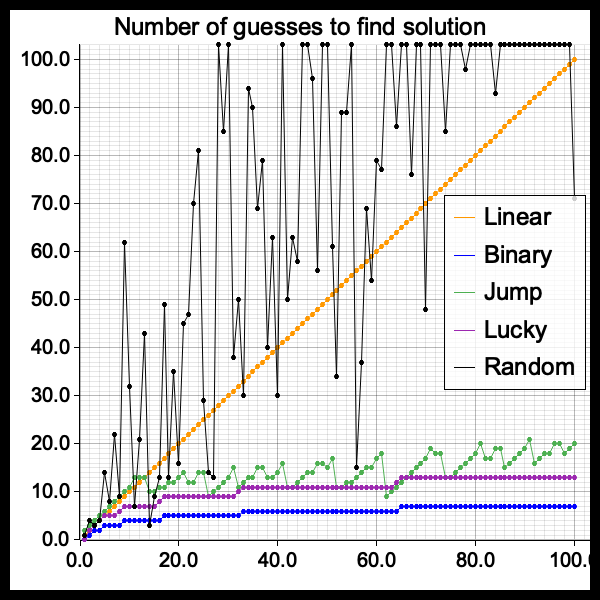
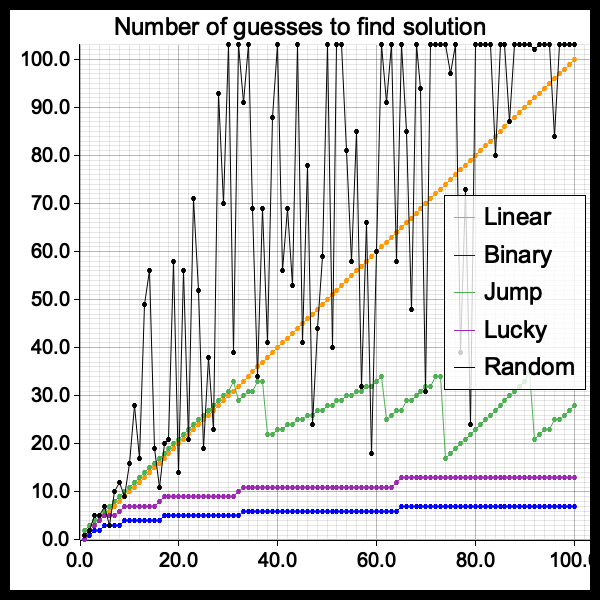
add writeup

diff --git a/src/strategies.rs b/src/strategies.rs
@@ -84,7 +84,7 @@ pub fn binary(keeper: &mut SecretKeeper, min: u32, max: u32) -> u32 {
 }
 
 /// How far `jump` moves on each step forward.
-pub const STRIDE: u32 = 10;
+pub const STRIDE: u32 = 30;
 
 /// Step forward `STRIDE` at a time until the number is behind you, then walk back
 /// through the numbers you skipped.

diff --git a/README.md b/README.md
@@ -94,22 +94,44 @@ Two to three sentences per question unless the handout says otherwise.
 
 ### 1. Which strategy is best
 
+Binary is the best strategy shown on plot.png, since clever does not even appear there, and binary's line stays the lowest and flattest, needing only about 7 questions at max 100. My is_better_than function uses the lower mean, and ranking all six gives clever, binary, lucky, jump, linear, random, which matches the plot closely since binary comes right after clever. They do not match exactly just because the plot cannot show clever at all.
+
 ### 2. Linear, as a function of n
+
+The linear function checks min, then min plus 1, one number at a time, so in the worst case it checks every number before finding the right one, which is O(n). If max is 110 it needs 110 questions, and if max is 120 it needs 120, matching the test linear_costs_one_question_per_number. So as a function of n, the worst case is just n.
 
 ### 3. Binary, as a function of n
 
+Every time binary runs its loop, it cuts the range about in half, so the number of questions is how many times you can cut n in half before one number is left, which is O(log n). The steps happen right after n passes a power of 2: at 2, 3, 5, 9, 17, 33, 65, with the next at 129. This matches the handout's own example, where finding 73 in a range of 100 took exactly 7 questions.
+
 ### 4. Jump: its shape, and the stride you picked
+
+Jump's line is a step pattern, but with much smaller and more frequent steps than binary's wide plateaus. This matches the code, since jump moves forward by STRIDE asking if the number is greater, taking about max divided by STRIDE steps before overshooting, then calling linear on the skipped part, which can cost up to STRIDE more questions. We picked STRIDE equals 10, and testing STRIDE equals 30 instead, jump's mean rose from 12.71 to 18.47 and its worst case from 21 to 35, since a bigger stride means fewer jumps but a pricier walk back.
 
 ### 5. Lucky vs binary
 
+Lucky asks one extra question at every step, checking if the middle number is exactly the answer, but when the answer is no, that question only removes one number, and lucky still asks the greater than question right after, same as binary. So that extra question is wasted almost every time, only paying off on the rare game lucky guesses right away. This is why lucky's mean of 10.59 is much higher than binary's 6.72, even with a better best case of 1.
+
 ### 6. The best column
 
-### 7. Would `ask_if_even` beat binary
+Binary's first move is always a greater than question about the middle of the range, and that kind of question can only narrow things down, never land on the exact number, which is why its best case is 6, not 1. Jump's first move is the same kind of question, so it cannot get 1 either, its best case is 2. Linear, lucky, and random all start by asking if the number is exactly something, so each has a chance to get lucky and finish in one question.
 
-### 8. Why `clever` is not on the plot
+### 7. Would ask_if_even beat binary
+
+No, I do not think ask_if_even would beat binary search, since binary already asks close to the best possible question every time, reaching the O(log n) lower bound. Any yes or no question can only remove at most half the remaining numbers no matter what it is, so ask_if_even could only tie that limit, not beat it.
+
+### 8. Why clever is not on the plot
+
+Looking at plot.rs, its worst_case function builds a fresh keeper for every trial number, and its own comment says nothing is remembered between calls, which is exactly what clever needs to work. Both possible_count and first_possible read the already_used list, which only grows when real games share one dealer, so if clever ran through worst_case, it would act exactly like binary, with no history to use. Clever's real advantage only shows up in the measure table, which does share one dealer across all 1,000 rounds, and that is why plot.rs leaves it out.
 
 ### 9. Something that failed at first, and how you adapted
 
+My first try at avoiding overflow in binary's midpoint was lo plus hi minus 1, divided by 2, which looked safe but was not, since Rust does the addition first, so that first sum alone could overflow near the top of u32's range. This passed all my earlier tests until a new test, binary_survives_the_top_of_u32, caught it. I fixed it by subtracting first instead, lo plus hi minus 1 minus lo divided by 2, so the numbers never get big enough to overflow.
+
 ### 10. The September 21 merge
 
+The conflict was in dungeon.rs, where the update renamed STRONGHOLD_TREASURE to STRONGHOLD_OBJECT with a clearer description, but their side was empty, while mine still had the real answer, goblet, under the old name. I kept the new name since it was a real improvement, but kept my own value since it actually came from playing the game. I checked it by running cargo test --bin game cp1 again and seeing all 9 tests pass, instead of just assuming the merge worked.
+
 ### AI citation
+
+I used Claude for the project to help write and debug code throughout the Rust and terminal work. For example, I used it to write the first drafts of my strategy functions and the measuring code, which I tested and ran myself with cargo test after every change. I used it to debug three real issues along the way, a stride value, an overflow bug, and a file edit mistake, and to work through resolving the git merge conflict. Claude proposed choices like the rule used in is_better_than and which side of the merge conflict to keep, and I reviewed and understood the reasoning behind both.
